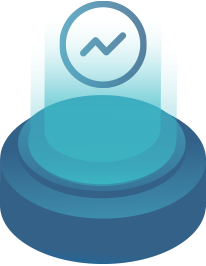
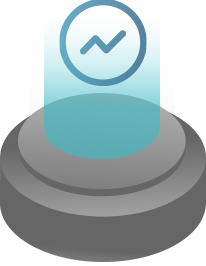
修改图片

diff --git a/components/Main/Page1.vue b/components/Main/Page1.vue
@@ -26,7 +26,7 @@
       <div class="bg-wrap">
 
         <div class="canvas bg-ywy">
-          <img class="img" src="@/static/2d/image/ywy.png" alt="">
+          <img class="img" src="@/static/2d/image/ywy.gif" alt="">
           <!-- <canvas id="view1" ref="view1" class="canvasBox"></canvas> -->
         </div>
         <div class="bg-box">
@@ -183,10 +183,10 @@
 
     .bg-ywy {
       position: absolute;
-      width: 48rem;
-      height: 43rem;
-      right: -10rem;
-      top: -1rem;
+      width: 34rem;
+      height: 24rem;
+      right: 5rem;
+      top: 5rem;
     }
 
     .bg-box {
